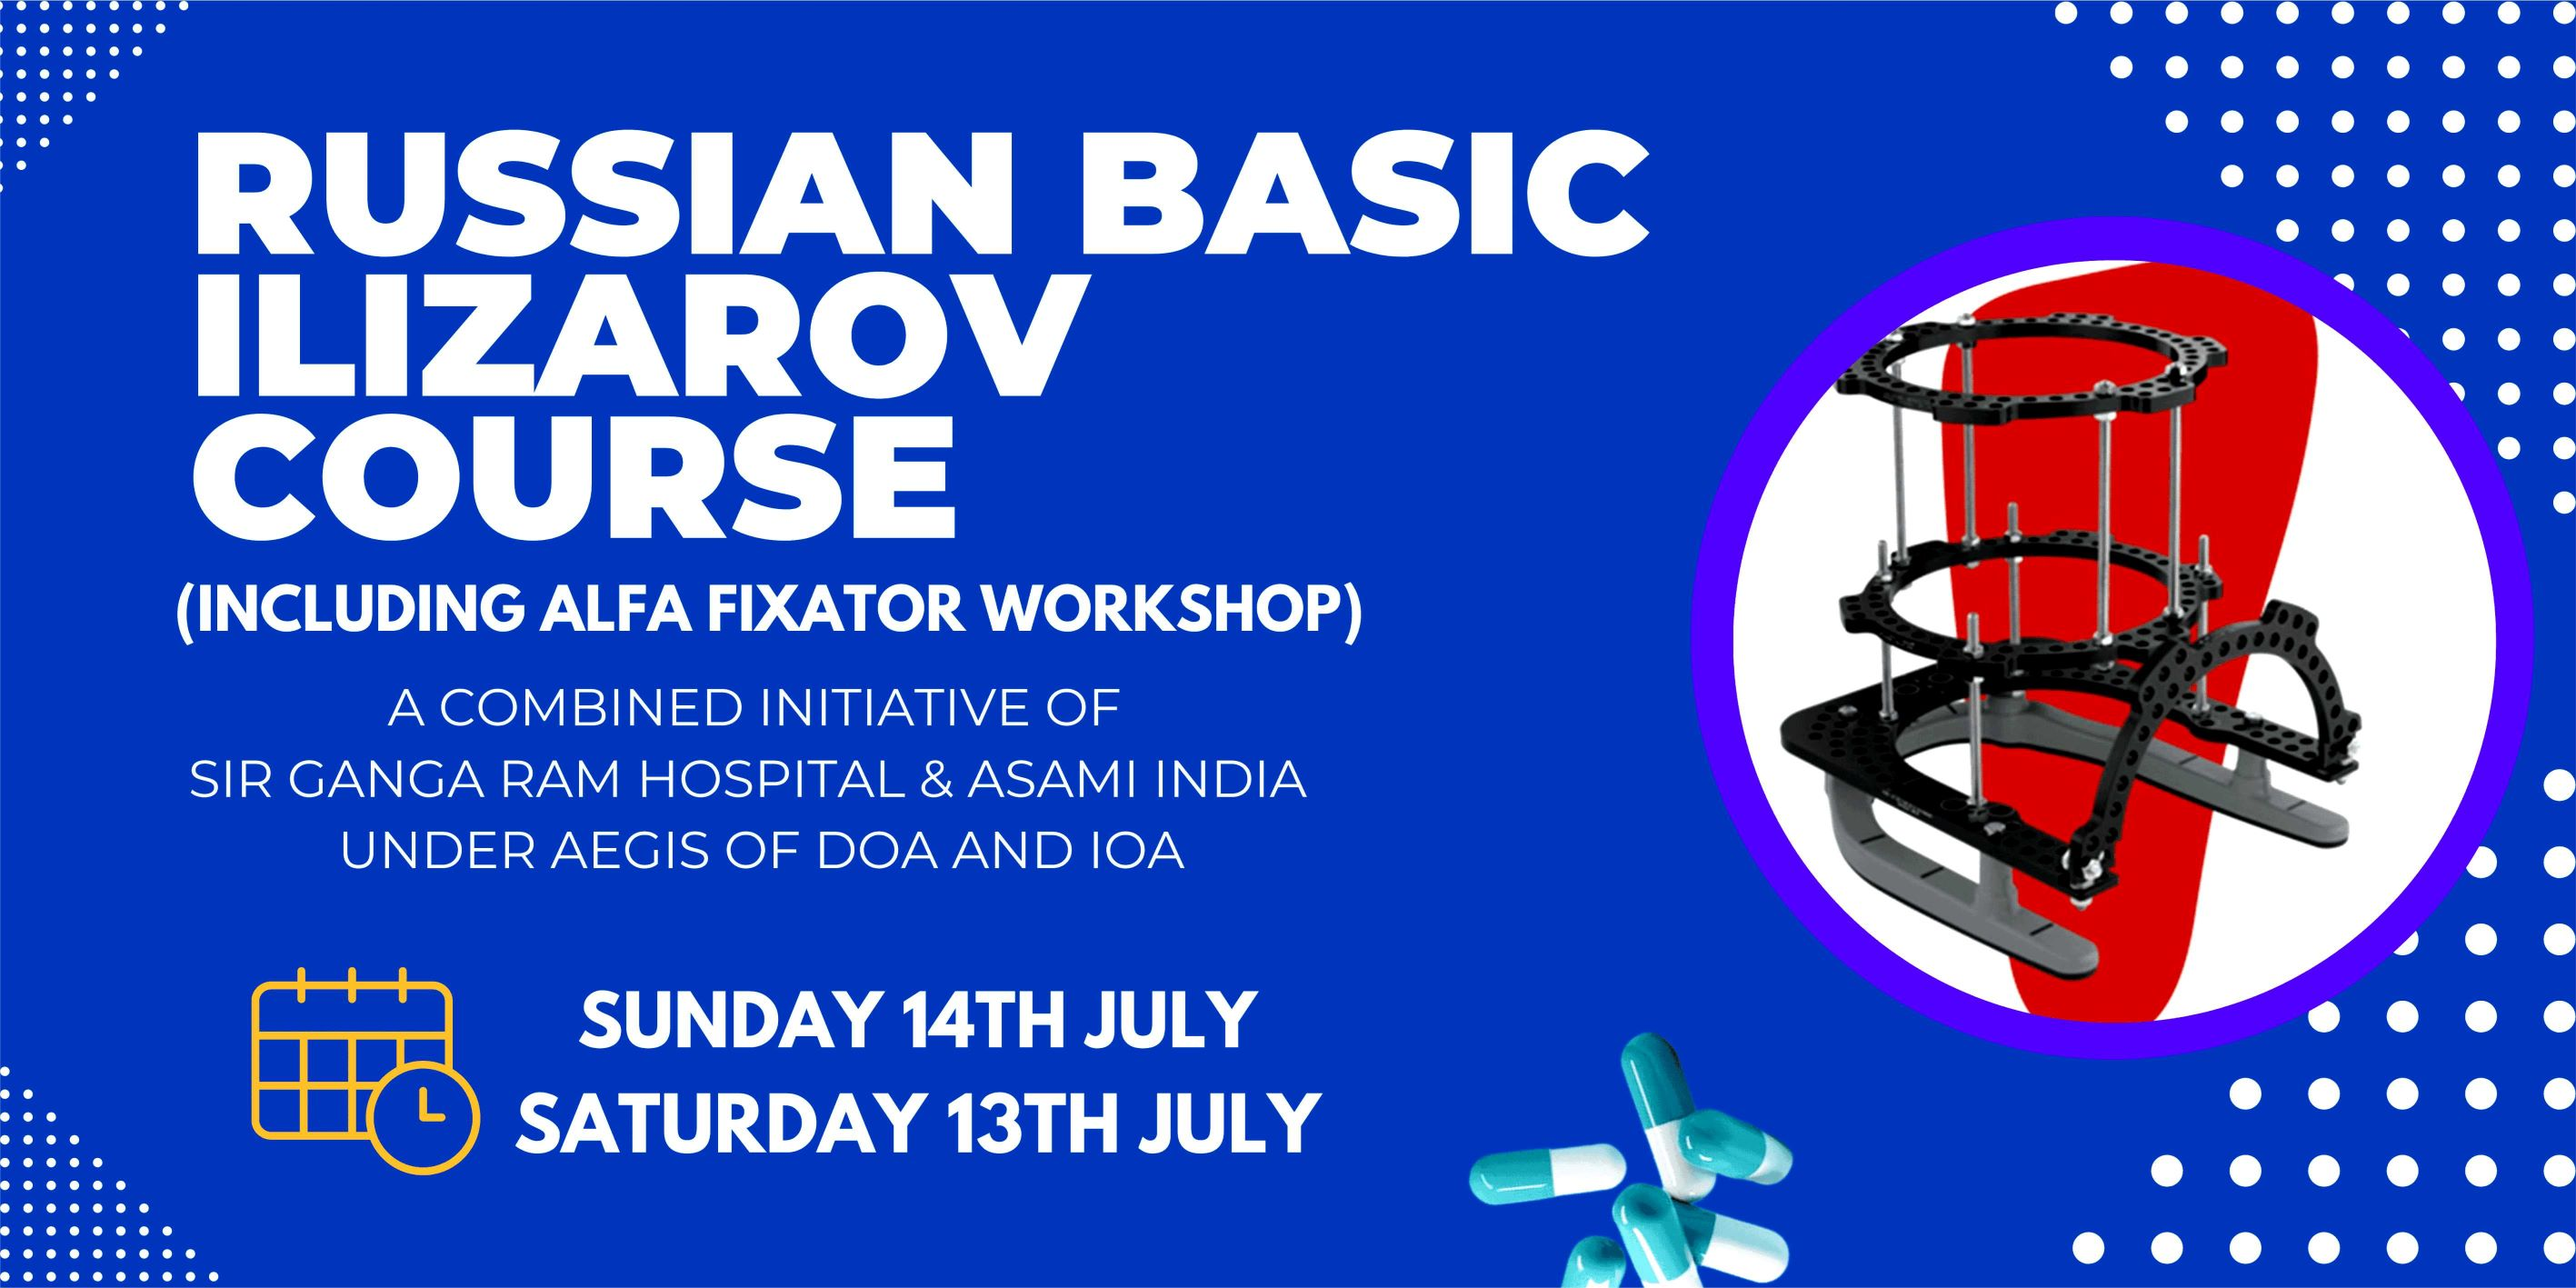
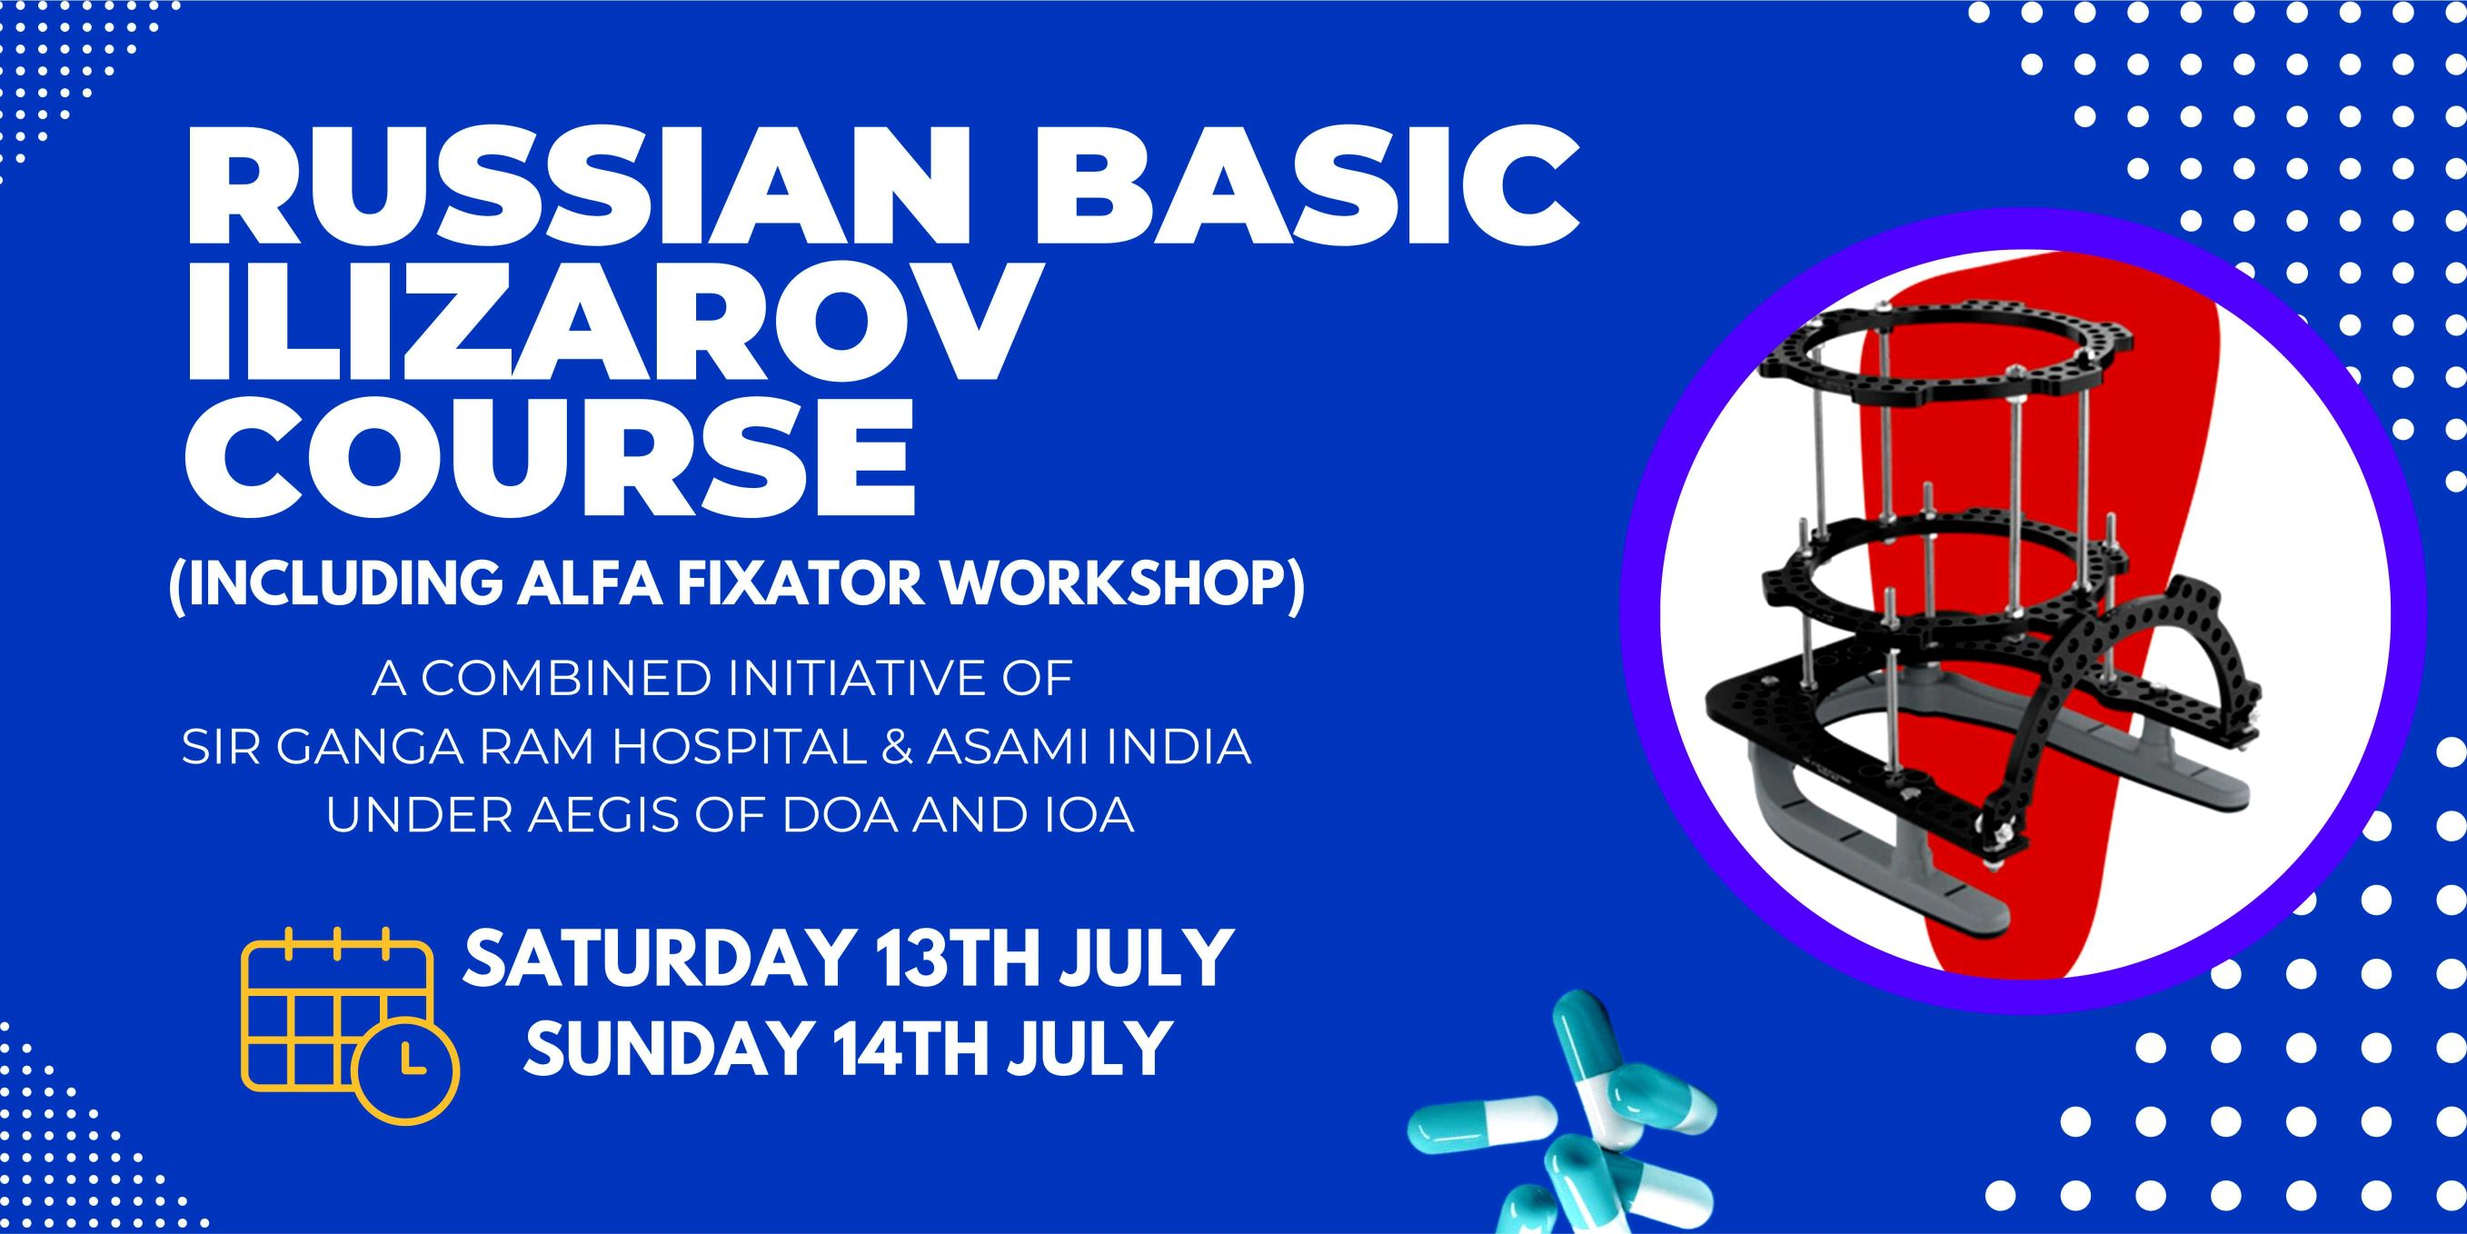
New Email Template

diff --git a/Events Email Template/index.html b/Events Email Template/index.html
@@ -35,12 +35,12 @@
         }
 
         /* ======= Media Queries ======= */
-          @media screen and (max-width: 600px) {
+          /* @media screen and (max-width: 600px) {
             #email-container {
                 width: 100%;
             }
         }
-        
+         */
 
     </style>
 
@@ -51,13 +51,12 @@
             <!-- ========== Top Header HTML Started ========== -->
             <tr style="padding: 40px;">
                 <td class="logo" style="width: 35%; padding: 15px 20px">    
-                    <!-- <img src="https://static.vecteezy.com/system/resources/previews/012/829/544/original/doctor-logo-or-medical-logo-template-or-health-care-clinic-design-free-vector.jpg" alt="Company Logo" width="100px" height="40px"> -->
                     Dr. Manish Dhawan
                 </td>
                 <td class="top-links" style="width: 65%; text-align: right; padding-right: 20px;">
                     <a href="https://docs.google.com/forms/d/e/1FAIpQLSfrlTrbwoWjAcG7M7HvcizWCFi3dw00Gu_ZzfPy9LBKJs_R7Q/viewform" style="border-right: 1px solid rgb(159, 156, 156);">Register Now </a>
                     <a href="https://drive.google.com/file/d/1daPuyWf2tLSuZnmbAV3wegVWQgv7KUG7/view?usp=sharing" style="border-right: 1px solid rgb(159, 156, 156);">Details</a>
-                    <a href="#">Contact</a>
+                    <a href="tel:+9811128288">Contact</a>
                 </td>
             </tr>
             <!-- ========== Top Header HTML Ended ========== -->
@@ -65,19 +64,11 @@
             <!-- ========== Banner Section Started ========== -->
             <tr>
                 <td colspan = "2" style="background-image: url(https://github.com/techiedharam/Email-Template-html/blob/master/Events%20Email%20Template/assets/bannerImg.jpg?raw=true); opacity: 1; background-position: center; background-repeat: no-repeat; background-size: cover; text-align: center; color: white; padding-bottom: 300px;">
-                    <!-- <h1>RUSSIAN BASIC ILIZAROV COURSE </h1>                
-                    <h4>(INCLUDING ALFA FIXATOR WORKSHOP)</h4>
-                    <p>A combined initiative of <br> Sir Ganga Ram Hospital & ASAMI INDIA <br> Under Aegis of DOA and IOA </p> -->
-                                 
-                    <!-- <a href="https://google.com" style="display: inline-block; background-color: #007bff; color: white; padding: 10px 20px; text-decoration: none; border-radius: 5px;">Register Now </a> -->
                 </td>
             </tr>
 
             <tr>
                 <td colspan = "2" style ="text-align: center; background-image: url(https://png.pngtree.com/background/20210714/original/pngtree-blue-leaf-banner-background-design-picture-image_1188280.jpg); background-size: cover; background-repeat: no-repeat;">
-                    <!-- <br> <strong>On</strong> -->
-                    <!-- <h2 style="font-weight: 900; color: #d1105a; line-height: 1px;">SATURDAY 13TH JULY</h2>
-                    <h2 style="font-weight: 900;">SUNDAY 14TH JULY</h2> -->
                     <P>Venue : <br> JAYPEE SIDHARTH <br> 3 , Rajendra place, New Delhi - 110008</P>                              
                     <a href="https://docs.google.com/forms/d/e/1FAIpQLSfrlTrbwoWjAcG7M7HvcizWCFi3dw00Gu_ZzfPy9LBKJs_R7Q/viewform" style="display: inline-block; background-color: #007bff; color: white; padding: 10px 20px; text-decoration: none; border-radius: 5px;">Register Now  </a>
                     <a href="https://drive.google.com/file/d/1daPuyWf2tLSuZnmbAV3wegVWQgv7KUG7/view?usp=sharing" style="display: inline-block; background-color: #007bff; color: white; padding: 10px 20px; text-decoration: none; border-radius: 5px;">VIEW INFO </a>
@@ -93,15 +84,27 @@
                 <img src="https://github.com/techiedharam/Email-Template-html/blob/master/Events%20Email%20Template/assets/dr_Img.png?raw=true" alt="" width="100%">
                 </td>
             </tr>
+            <tr>
+                <td  colspan = "2" style="text-align: center;">
+                <img src="https://github.com/techiedharam/Email-Template-html/blob/master/Events%20Email%20Template/assets/3rd_page.png?raw=true" alt="" width="100%">
+                </td>
+            </tr>
+            <tr>
+                <td  colspan = "2" style="text-align: center;">
+                <img src="https://github.com/techiedharam/Email-Template-html/blob/master/Events%20Email%20Template/assets/4th_page.png?raw=true" alt="" width="100%">
+                </td>
+            </tr>
+            <tr>
+                <td  colspan = "2" style="text-align: center;">
+                <img src="https://github.com/techiedharam/Email-Template-html/blob/master/Events%20Email%20Template/assets/5th_page.png?raw=true" alt="" width="100%">
+                </td>
+            </tr>
             <!-- ========== Body Section Ended =========== -->
             
             <!-- ========= Registration Section Started ======== -->
             <tr>
                 <td  colspan = "2" style="background-color: #001f54; border-color: #fbfbfb; text-align: center; border-radius: 5px;">
-                    <br>
-                    <a href="" style="display: inline-block; background-color: #163061; color: white; padding: 10px 20px; text-decoration: none; border-radius: 5px;">Register Now</a>                   
-                    <br><br>
-                    <img src="https://github.com/techiedharam/Email-Template-html/blob/master/Events%20Email%20Template/assets/event-details.png?raw=true" alt="" width="100%">
+                    <img src="https://github.com/techiedharam/Email-Template-html/blob/master/Events%20Email%20Template/assets/eventRegistration.png?raw=true" alt="" width="100%">
                 </td>
             </tr>
             <!-- ========= Registration Section Ended ========= -->
@@ -144,12 +147,13 @@
             
             <!-- ============ Small Footer Started =========== -->
             <tr>
-            <td colspan="2" style="background-color: #001f54; color: #fff !important; text-align: center; font-size: 14px; padding: 20px 0;">
+                <td colspan="2" style="background-color: #f1f2f6; text-align: center; font-size: 14px; padding: 20px 0;">
                     If you have any problem Contact <br>
                     <strong style="font-size: 20px;">Dr. Manish Dhawan </strong> <br>
-                     Course Chairman, <br>
-                     Mobile Number - 9811128288 |  Email Id: coursesgangaram@gmail.com
-                </td>
+                    Course Chairman, <br>
+                    Mobile Number - 9811128288 
+                    <a href="mailto:coursesgangaram@gmail.com" style="text-decoration: none;">Email Id: coursesgangaram@gmail.com</a>
+                </td>                
             </tr>
             <!-- ============ Small Footer Ended =========== -->
 
